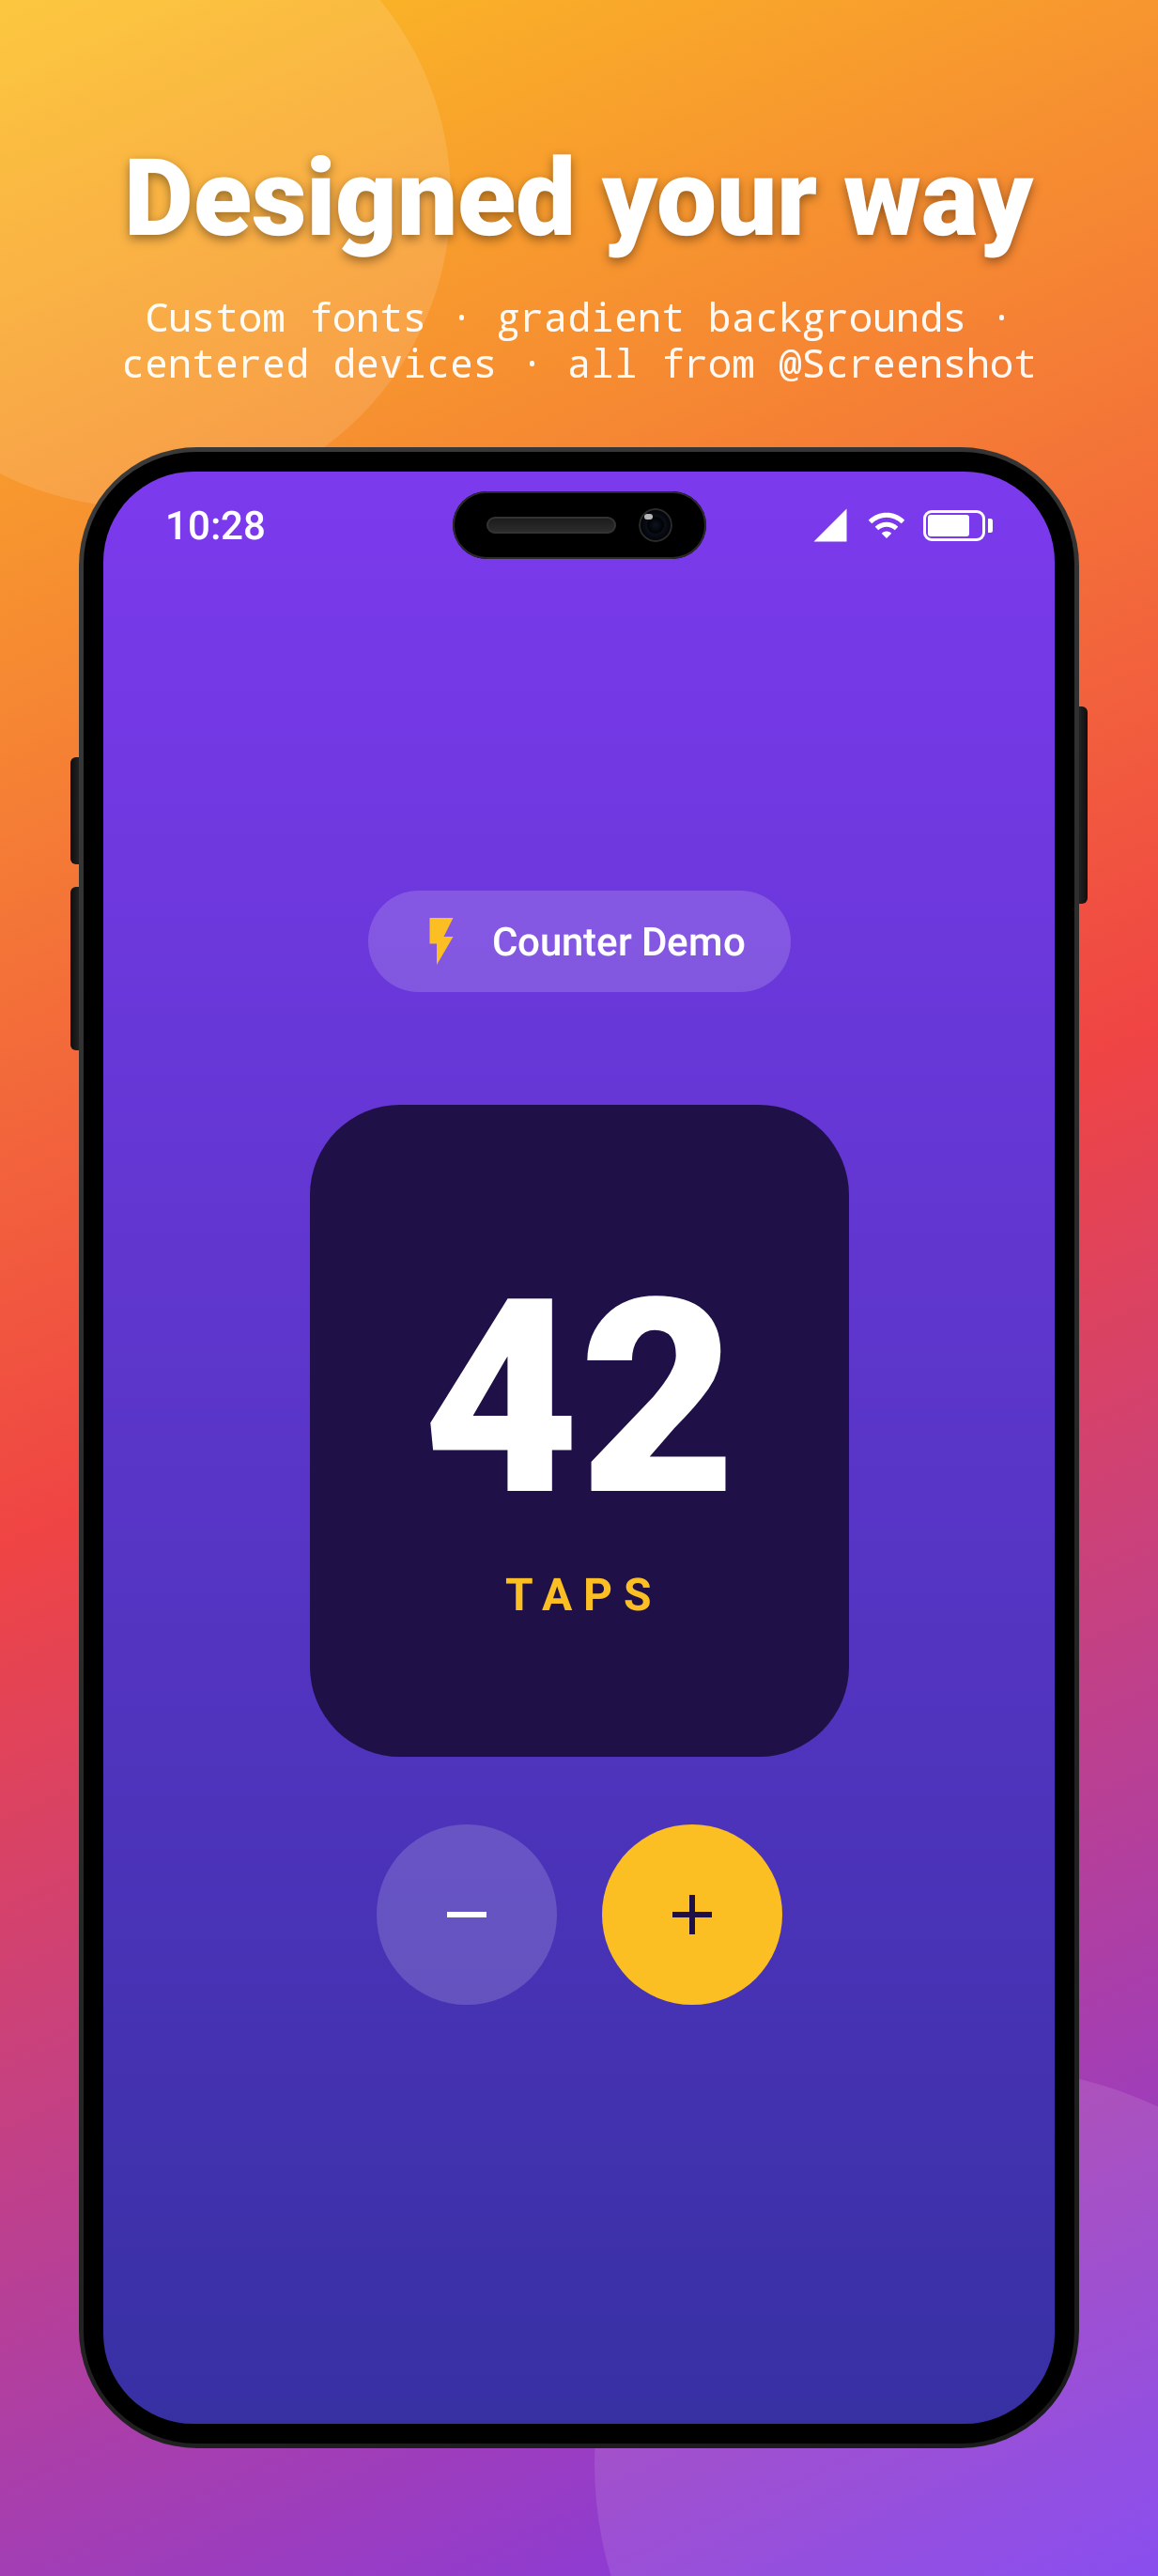
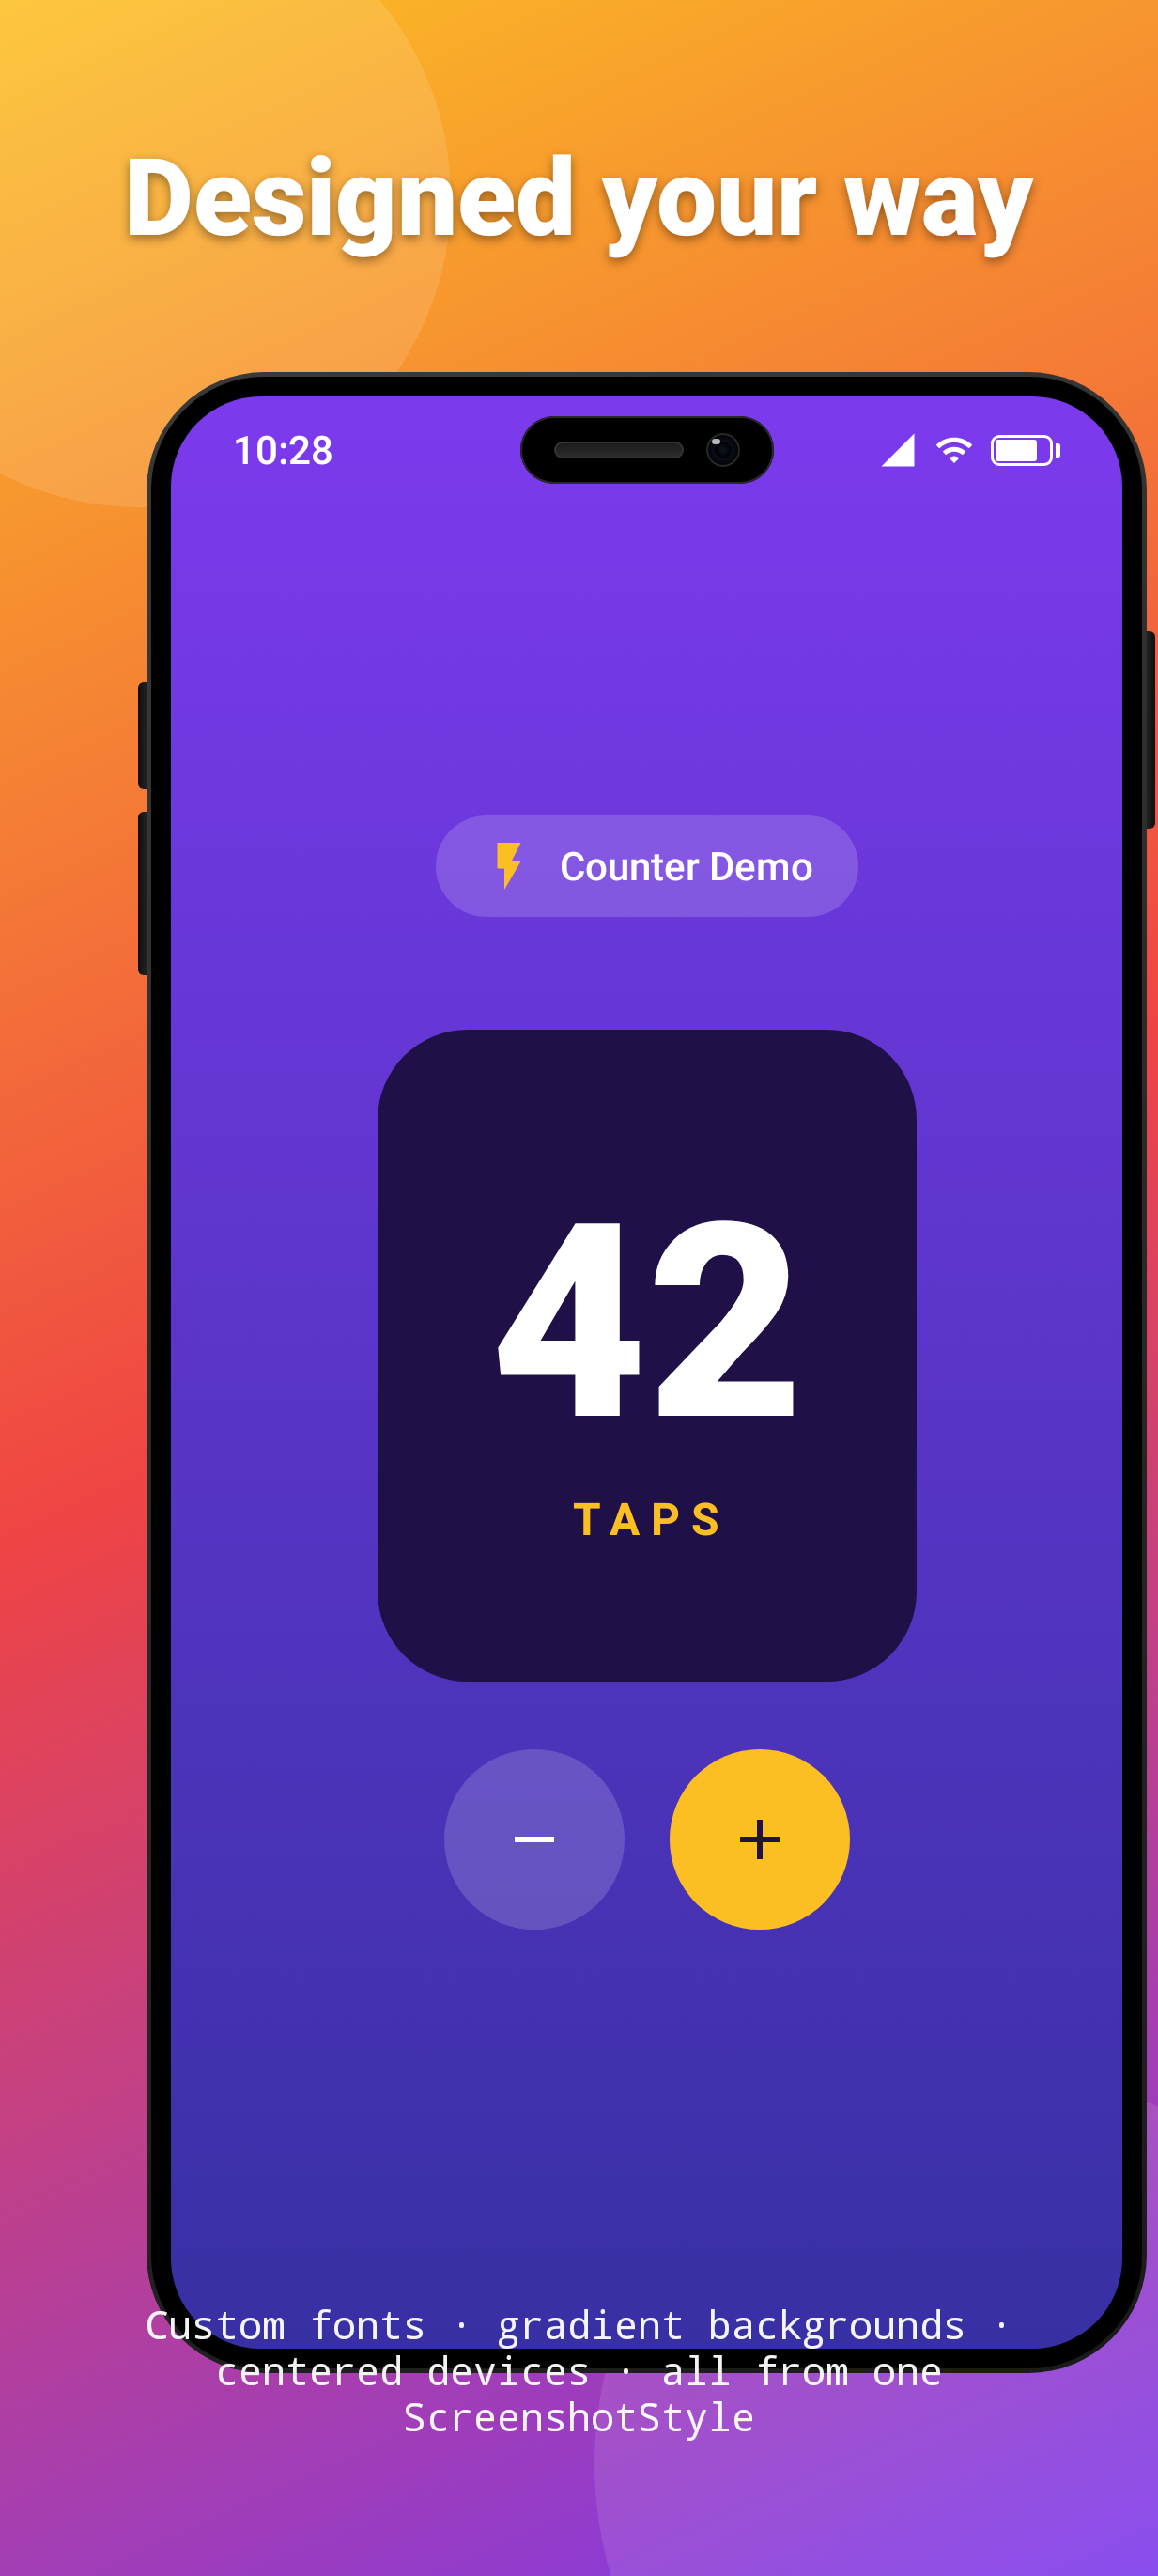
Keep all style properties on ScreenshotStyle, not @user
Annotations can't hold composable lambdas, so splitting style between
@user (primitives) and ScreenshotStyle (composables) created two
parallel override surfaces. Consolidate: @user holds only content
fields (locales, title, description, backgroundColor, contentColor);
all visual styling lives in ScreenshotStyle via capture(style = …).

Removed: FontFamilyName enum, MockupPosition.Inherit sentinel,
mergeAnnotationIntoStyle() logic, annotation-level mockupPosition/
mockupOffsetXDp/mockupOffsetYDp/titleFontFamily/descriptionFontFamily.

PhoneStyledExampleTest now passes the full ScreenshotStyle to capture().

diff --git a/library/src/main/kotlin/dev/lucianosantos/storescreenshots/ScreenshotRule.kt b/library/src/main/kotlin/dev/lucianosantos/storescreenshots/ScreenshotRule.kt
@@ -7,8 +7,6 @@ import androidx.compose.ui.test.junit4.createComposeRule
 import androidx.compose.ui.test.onRoot
 import com.github.takahirom.roborazzi.RoborazziOptions
 import com.github.takahirom.roborazzi.captureRoboImage
-import androidx.compose.ui.unit.DpOffset
-import androidx.compose.ui.unit.dp
 import dev.lucianosantos.storescreenshots.frames.AppleFrame
 import dev.lucianosantos.storescreenshots.frames.PhoneFrame
 import dev.lucianosantos.storescreenshots.frames.TabletFrame
@@ -58,8 +56,6 @@ class ScreenshotRule(
     private var currentDescription: String = ""
     private var currentBackground: Color = Screenshot.DEFAULT_BACKGROUND.toComposeColor()
     private var currentContentColor: Color = Color.White
-    private var currentMergedStyle: ScreenshotStyle = style
-
     override fun apply(base: Statement, description: Description): Statement {
         val annotation = description.getAnnotation(Screenshot::class.java)
             ?: error(
@@ -67,7 +63,6 @@ class ScreenshotRule(
                     "Either add @Screenshot or remove ScreenshotRule from this class."
             )
         testMethodName = description.methodName ?: error("Test has no method name")
-        currentMergedStyle = mergeAnnotationIntoStyle(annotation, style)
 
         return object : Statement() {
             override fun evaluate() {
@@ -108,7 +103,7 @@ class ScreenshotRule(
      * Defaults to the style passed to the [ScreenshotRule] constructor.
      */
     fun capture(
-        style: ScreenshotStyle = currentMergedStyle,
+        style: ScreenshotStyle = this.style,
         content: @Composable () -> Unit,
     ) {
         require(::composeRule.isInitialized) {
@@ -197,34 +192,4 @@ private fun Long.toComposeColor(): Color {
     val g = ((this shr 8) and 0xFF).toInt()
     val b = (this and 0xFF).toInt()
     return Color(red = r, green = g, blue = b, alpha = a)
-}
-
-/**
- * Overlay any non-sentinel annotation values on top of the class-level [base] style.
- * Sentinel values (Inherit, Float.NaN) mean "keep whatever the base says."
- */
-private fun mergeAnnotationIntoStyle(annotation: Screenshot, base: ScreenshotStyle): ScreenshotStyle {
-    val position = if (annotation.mockupPosition != MockupPosition.Inherit) {
-        annotation.mockupPosition
-    } else {
-        base.mockupPosition
-    }
-    val offsetX = if (!annotation.mockupOffsetXDp.isNaN()) annotation.mockupOffsetXDp.dp else base.mockupOffset.x
-    val offsetY = if (!annotation.mockupOffsetYDp.isNaN()) annotation.mockupOffsetYDp.dp else base.mockupOffset.y
-    val titleFont = if (annotation.titleFontFamily != FontFamilyName.Inherit) {
-        annotation.titleFontFamily.toFontFamily()
-    } else {
-        base.titleFontFamily
-    }
-    val descFont = if (annotation.descriptionFontFamily != FontFamilyName.Inherit) {
-        annotation.descriptionFontFamily.toFontFamily()
-    } else {
-        base.descriptionFontFamily
-    }
-    return base.copy(
-        mockupPosition = position,
-        mockupOffset = DpOffset(offsetX, offsetY),
-        titleFontFamily = titleFont,
-        descriptionFontFamily = descFont,
-    )
 }

diff --git a/example/src/screenshots/kotlin/dev/lucianosantos/storescreenshots/example/PhoneStyledExampleTest.kt b/example/src/screenshots/kotlin/dev/lucianosantos/storescreenshots/example/PhoneStyledExampleTest.kt
@@ -19,9 +19,9 @@ import androidx.compose.ui.text.TextStyle
 import androidx.compose.ui.text.font.FontFamily
 import androidx.compose.ui.text.font.FontWeight
 import androidx.compose.ui.text.style.TextAlign
+import androidx.compose.ui.unit.DpOffset
 import androidx.compose.ui.unit.dp
 import androidx.compose.ui.unit.sp
-import dev.lucianosantos.storescreenshots.FontFamilyName
 import dev.lucianosantos.storescreenshots.FormFactor
 import dev.lucianosantos.storescreenshots.MockupPosition
 import dev.lucianosantos.storescreenshots.Screenshot
@@ -30,26 +30,27 @@ import dev.lucianosantos.storescreenshots.StoreScreenshotsTest
 import org.junit.Test
 
 /**
- * Demonstrates annotation-level styling combined with composable overrides.
+ * Demonstrates per-method styling via `capture(style = …)`.
  *
- * Simple properties (mockupPosition, offsets, font families) live on `@Screenshot` directly.
- * Composable overrides (custom background, title, description) are passed via `capture(style = …)`
- * because annotation parameters can't hold lambdas.
+ * All visual customization lives in one [ScreenshotStyle] passed right next to `@Screenshot`:
+ * - `MockupPosition.Middle` — title above, device centered, description below.
+ * - `mockupOffset` — visual nudge.
+ * - `titleFontFamily` / `descriptionFontFamily` — per-slot fonts.
+ * - `background` / `title` / `description` — composable overrides.
  */
 class PhoneStyledExampleTest : StoreScreenshotsTest(FormFactor.Phone) {
 
     @Test
     @Screenshot(
         title = "Designed your way",
-        description = "Custom fonts · gradient backgrounds · centered devices · all from @Screenshot",
-        mockupPosition = MockupPosition.Middle,
-        mockupOffsetXDp = 24f,
-        mockupOffsetYDp = 32f,
-        titleFontFamily = FontFamilyName.Serif,
-        descriptionFontFamily = FontFamilyName.Monospace,
+        description = "Custom fonts · gradient backgrounds · centered devices · all from one ScreenshotStyle",
     )
     fun counter_styled() = capture(
         style = ScreenshotStyle(
+            mockupPosition = MockupPosition.Middle,
+            mockupOffset = DpOffset(x = 24.dp, y = 32.dp),
+            titleFontFamily = FontFamily.Serif,
+            descriptionFontFamily = FontFamily.Monospace,
             background = { MarketingBackground() },
             title = { text -> StyledTitle(text) },
             description = { text -> StyledDescription(text) },

diff --git a/library/src/main/kotlin/dev/lucianosantos/storescreenshots/Screenshot.kt b/library/src/main/kotlin/dev/lucianosantos/storescreenshots/Screenshot.kt
@@ -6,11 +6,9 @@ package dev.lucianosantos.storescreenshots
  * The associated [ScreenshotRule] reads the annotation and renders the test once per locale,
  * writing each rendering into the Fastlane metadata layout under the consuming project.
  *
- * Simple styling properties ([mockupPosition], [mockupOffsetXDp], [mockupOffsetYDp],
- * [titleFontFamily], [descriptionFontFamily]) can be set here per-screenshot. Values left at
- * their `Inherit` / `NaN` defaults fall through to the class-level [ScreenshotStyle].
- * Composable overrides (custom background, title, description composables) are only available
- * via [ScreenshotStyle] passed to [ScreenshotRule] or [StoreScreenshotsTest].
+ * For visual styling (mockup position, fonts, composable overrides for background/title/description),
+ * pass a [ScreenshotStyle] to [StoreScreenshotsTest] (class-level default) or to
+ * `capture(style = …)` (per-method override).
  *
  * @param locales BCP-47 locale tags. Each entry produces one image. Default is en-US.
  * @param title Headline shown above the device frame.
@@ -19,11 +17,6 @@ package dev.lucianosantos.storescreenshots
  * @param descriptionByLocale Per-locale overrides for [description]. Same format.
  * @param backgroundColor Banner background as 0xAARRGGBB (e.g. 0xFF1F2937).
  * @param contentColor Foreground text color as 0xAARRGGBB. Default white.
- * @param mockupPosition Where the device sits vertically. [MockupPosition.Inherit] defers to class-level.
- * @param mockupOffsetXDp Horizontal visual nudge in dp. [Float.NaN] defers to class-level.
- * @param mockupOffsetYDp Vertical visual nudge in dp. [Float.NaN] defers to class-level.
- * @param titleFontFamily Font for the title. [FontFamilyName.Inherit] defers to class-level.
- * @param descriptionFontFamily Font for the description. [FontFamilyName.Inherit] defers to class-level.
  */
 @Target(AnnotationTarget.FUNCTION)
 @Retention(AnnotationRetention.RUNTIME)
@@ -35,11 +28,6 @@ annotation class Screenshot(
     val descriptionByLocale: Array<String> = [],
     val backgroundColor: Long = DEFAULT_BACKGROUND,
     val contentColor: Long = DEFAULT_CONTENT,
-    val mockupPosition: MockupPosition = MockupPosition.Inherit,
-    val mockupOffsetXDp: Float = Float.NaN,
-    val mockupOffsetYDp: Float = Float.NaN,
-    val titleFontFamily: FontFamilyName = FontFamilyName.Inherit,
-    val descriptionFontFamily: FontFamilyName = FontFamilyName.Inherit,
 ) {
     companion object {
         const val DEFAULT_BACKGROUND: Long = 0xFF1F2937

diff --git a/library/src/main/kotlin/dev/lucianosantos/storescreenshots/MockupPosition.kt b/library/src/main/kotlin/dev/lucianosantos/storescreenshots/MockupPosition.kt
@@ -8,8 +8,4 @@ package dev.lucianosantos.storescreenshots
  * - [Bottom]: title + description at the top, device pushed to the bottom (default; matches
  *   the most common Play Store screenshot layout).
  */
-enum class MockupPosition {
-    Top, Middle, Bottom,
-    /** Use the class-level [ScreenshotStyle.mockupPosition] default. Only valid inside [Screenshot]. */
-    Inherit,
-}
+enum class MockupPosition { Top, Middle, Bottom }

diff --git a/library/src/main/kotlin/dev/lucianosantos/storescreenshots/frames/FramedLayout.kt b/library/src/main/kotlin/dev/lucianosantos/storescreenshots/frames/FramedLayout.kt
@@ -92,7 +92,6 @@ internal fun FramedLayout(
             horizontalAlignment = Alignment.CenterHorizontally,
         ) {
             when (style.mockupPosition) {
-                MockupPosition.Inherit,
                 MockupPosition.Top -> {
                     mockup(offsetModifier)
                     Spacer(Modifier.height(24.dp))